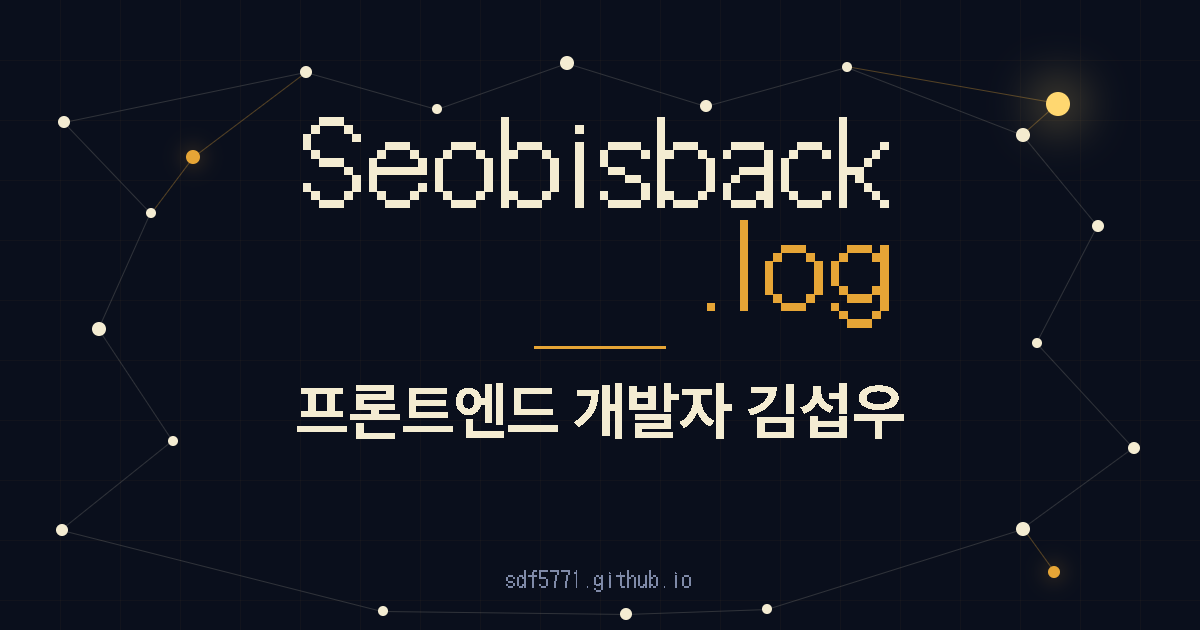
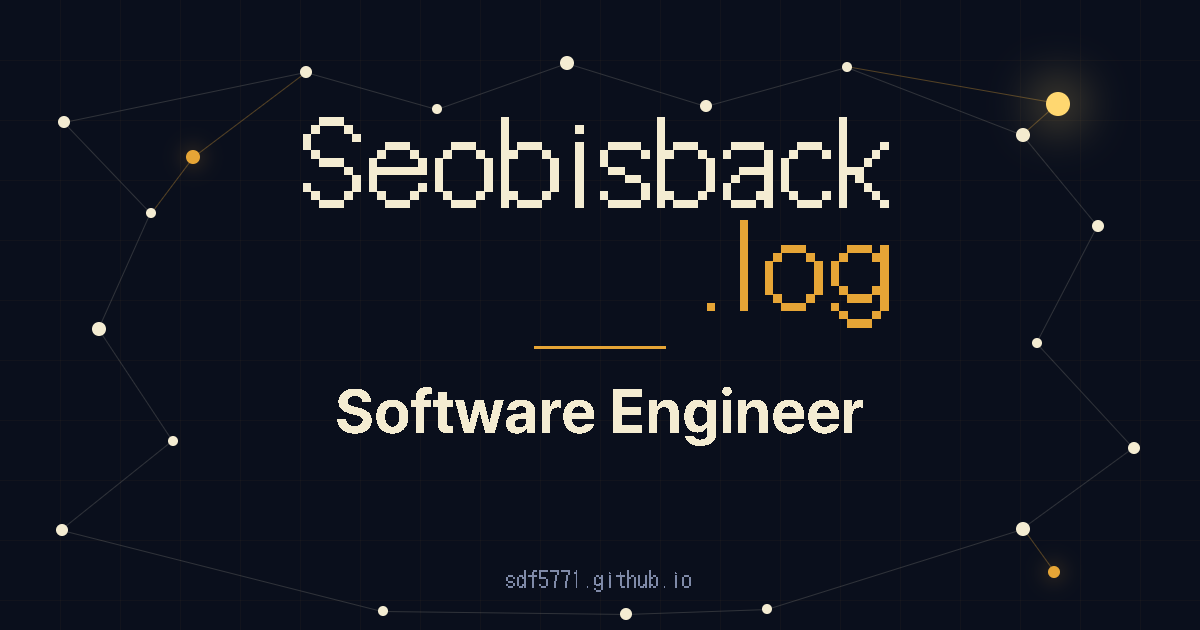
feat: 저자 표기를 Software Engineer Seobisback 으로 통일 + OG 카드 재생성
`프론트엔드 개발자 김섭우` → `Software Engineer` · `Seobisback` 로 전 범위
통일합니다. 홈만 바꾸면 <title>·소개·OG 카드가 서로 다른 직함을 말하게 되어
한 사람이 한 사이트에서 두 직함을 갖습니다.

세 곳은 단순 치환이 아닙니다.
- <title>·og:title·twitter:title 에서 이름을 뺐습니다. 워드마크가 이미
  `Seobisback` 을 담고 있어 부제까지 이름을 넣으면 같은 단어가 두 번 나옵니다.
  → `Seobisback.log — Software Engineer`
- 소개 본문은 어순을 바꿨습니다. `Software Engineer Seobisback입니다` 는 영어
  두 덩어리가 조사 없이 붙어 딱딱합니다.
  → `Software Engineer로 일하는 Seobisback입니다.`
- OG 카드 제목 슬롯은 직함만 넣습니다. 카드에 워드마크가 있어 이름을 또 넣으면
  한 이미지에 세 번 나옵니다. 부수 효과로 슬롯이 1행이 되어 2행 클램프가
  걸리지 않고 축소 가독성이 좋아집니다.

OG 카드는 텍스트가 이미지에 구워져 있어 PNG 를 다시 캡처했습니다(기존 절차
그대로 — playwright 1.52.0 고정 · http.server 경유 · deviceScaleFactor 1).
1200x630 RGB 44.6KB. 슬롯 높이 168px 고정이라 1행이 되어도 세로 배치는
그대로입니다(슬롯 371~539 · 도메인 top 566) — 실측으로 확인했습니다.

홈 h1 은 라틴이 되면서 한글 22px 하한이 빠지지만 11 의 정수배 규칙은 그대로라
55px(5x11) 을 유지합니다. 실측 340px 로 히어로 폭 660px 안에 들어갑니다.

RecentPosts·PostRow·About 의 주석이 인용하던 `김섭우` 도 함께 정정했습니다.

Changed region(s): [[0.2467, 0.6032, 0.7708, 0.7238]]

diff --git a/index.html b/index.html
@@ -41,7 +41,7 @@
     />
     <link rel="icon" type="image/x-icon" href="/favicon.ico" />
     <meta name="viewport" content="width=device-width, initial-scale=1.0" />
-    <meta name="description" content="프론트엔드 개발자 김섭우의 기술 블로그입니다. 공부하거나 조사한 내용을 기록합니다. 프론트엔드, 브라우저, 그리고 그 사이의 이야기를 남깁니다." />
+    <meta name="description" content="Software Engineer Seobisback의 기술 블로그입니다. 공부하거나 조사한 내용을 기록합니다. 프론트엔드, 브라우저, 그리고 그 사이의 이야기를 남깁니다." />
     <meta name="author" content="Seobisback" />
     <meta name="keywords" content="Seobisback, Blog, Frontend, Developer, JavaScript, TypeScript, React, Next.js, Tailwind CSS, HTML, CSS, Web Development" />
     <!--
@@ -51,8 +51,8 @@
       바꾼 문구가 공유 카드에 끝내 나타나지 않습니다.
       바로 아래 twitter:* 는 반대로 `name=` 이 맞습니다(트위터 카드는 RDFa 가 아님).
     -->
-    <meta property="og:title" content="Seobisback.log — 프론트엔드 개발자 김섭우" />
-    <meta property="og:description" content="프론트엔드 개발자 김섭우의 기술 블로그입니다. 공부하거나 조사한 내용을 기록합니다. 프론트엔드, 브라우저, 그리고 그 사이의 이야기를 남깁니다." />
+    <meta property="og:title" content="Seobisback.log — Software Engineer" />
+    <meta property="og:description" content="Software Engineer Seobisback의 기술 블로그입니다. 공부하거나 조사한 내용을 기록합니다. 프론트엔드, 브라우저, 그리고 그 사이의 이야기를 남깁니다." />
     <!--
       🔴 og:image 는 반드시 절대 URL 입니다. 스크레이퍼(페이스북·슬랙·카카오)는
       HTML 을 내려받아 서버 밖에서 파싱하므로 `/og/default.png` 같은 상대 경로를
@@ -65,7 +65,7 @@
     <meta property="og:image" content="https://sdf5771.github.io/og/default.png" />
     <meta property="og:image:width" content="1200" />
     <meta property="og:image:height" content="630" />
-    <meta property="og:image:alt" content="Seobisback.log — 프론트엔드 개발자 김섭우" />
+    <meta property="og:image:alt" content="Software Engineer" />
     <meta property="og:url" content="https://sdf5771.github.io/" />
     <meta property="og:site_name" content="Seobisback.log" />
     <meta property="og:type" content="website" />
@@ -77,11 +77,11 @@
       남겨 두면 og:image 로 폴백하지 않고 이쪽이 우선돼 미리보기가 깨집니다.
     -->
     <meta name="twitter:card" content="summary_large_image" />
-    <meta name="twitter:title" content="Seobisback.log — 프론트엔드 개발자 김섭우" />
-    <meta name="twitter:description" content="프론트엔드 개발자 김섭우의 기술 블로그입니다. 공부하거나 조사한 내용을 기록합니다. 프론트엔드, 브라우저, 그리고 그 사이의 이야기를 남깁니다." />
+    <meta name="twitter:title" content="Seobisback.log — Software Engineer" />
+    <meta name="twitter:description" content="Software Engineer Seobisback의 기술 블로그입니다. 공부하거나 조사한 내용을 기록합니다. 프론트엔드, 브라우저, 그리고 그 사이의 이야기를 남깁니다." />
     <meta name="twitter:image" content="https://sdf5771.github.io/og/default.png" />
     <meta name="twitter:url" content="https://sdf5771.github.io/" />
-    <title>Seobisback.log — 프론트엔드 개발자 김섭우</title>
+    <title>Seobisback.log — Software Engineer</title>
   </head>
   <body>
     <div id="root"></div>

diff --git a/src/routes/About/About.tsx b/src/routes/About/About.tsx
@@ -49,7 +49,7 @@ function About() {
 
                 <section className={styles.intro}>
                     {/*
-                     * 바로 옆에 `프론트엔드 개발자 김섭우입니다` 가 있으므로 alt 는
+                     * 바로 옆에 `Software Engineer로 일하는 Seobisback입니다` 가 있으므로 alt 는
                      * 비웁니다. memoji 일러스트의 외형 설명은 정보량이 0 입니다.
                      * width/height **속성**이 있어야 로드 전에 자리가 잡혀 CLS 가 0 입니다
                      * (CSS width 만으로는 예약 공간이 안 잡힙니다).
@@ -67,7 +67,7 @@ function About() {
 
                     {/* 의미 단위가 달라 <p> 3개로 둡니다. 한 덩어리로 합치지 않습니다 */}
                     <div className={styles.intro_text}>
-                        <p>프론트엔드 개발자 김섭우입니다.</p>
+                        <p>Software Engineer로 일하는 Seobisback입니다.</p>
                         <p>
                             더 나은 서비스를 만드는 방법을 고민하고, 공부하거나 조사한 내용을
                             여기에 남깁니다.

diff --git a/scripts/og-card/og-card.html b/scripts/og-card/og-card.html
@@ -134,7 +134,7 @@
       <!-- ★ 제목 슬롯 ★ 글별 카드는 이 안의 텍스트만 교체합니다 (핸드오프 §3-1).
            높이 168px 은 시안 마크업 정본입니다 — 핸드오프 §1-5 의 172px 은 오기입니다. -->
       <div id="title-slot" style="width:1000px;height:168px;margin-top:22px;display:flex;align-items:flex-start;justify-content:center">
-        <div id="title" style="font-family:'Pretendard',sans-serif;font-weight:700;font-size:62px;line-height:1.3;color:#f4ecd2;text-align:center;letter-spacing:-0.01em;display:-webkit-box;-webkit-line-clamp:2;-webkit-box-orient:vertical;overflow:hidden">프론트엔드 개발자 김섭우</div>
+        <div id="title" style="font-family:'Pretendard',sans-serif;font-weight:700;font-size:62px;line-height:1.3;color:#f4ecd2;text-align:center;letter-spacing:-0.01em;display:-webkit-box;-webkit-line-clamp:2;-webkit-box-orient:vertical;overflow:hidden">Software Engineer</div>
       </div>
     </div>
 

diff --git a/src/constants/site.ts b/src/constants/site.ts
@@ -19,8 +19,14 @@ export const WORDMARK = {
 /** 스크린리더·aria-label·document.title 용 단일 문자열 */
 export const WORDMARK_TEXT = `${WORDMARK.base}${WORDMARK.accent}`;
 
-/** 홈 `<title>`. 홈만 사이트명이 앞에 옵니다 (WRITING_GUIDE §6.13) */
-export const HOME_TITLE = `${WORDMARK_TEXT} — 프론트엔드 개발자 김섭우`;
+/**
+ * 홈 `<title>`. 홈만 사이트명이 앞에 옵니다 (WRITING_GUIDE §6.13)
+ *
+ * 🔴 부제에 이름을 넣지 않습니다. 워드마크가 이미 `Seobisback` 을 담고 있어
+ *    `… — Software Engineer Seobisback` 이면 한 제목에 같은 단어가 두 번 나옵니다.
+ *    부제는 직함만 맡습니다.
+ */
+export const HOME_TITLE = `${WORDMARK_TEXT} — Software Engineer`;
 
 /** 홈이 아닌 화면의 `<title>` 꼬리표. 구분자는 `·` 고정입니다 */
 const TITLE_SUFFIX = ` · ${WORDMARK_TEXT}`;

diff --git a/src/components/home/ConstellationHero.tsx b/src/components/home/ConstellationHero.tsx
@@ -39,8 +39,8 @@ import { formatPostDate, formatReadingMinutes } from '../../utils/postMeta';
 /* ------------------------------------------------------------
  * 확정 카피 (§10) — 이 표의 문자열을 그대로 씁니다
  * ---------------------------------------------------------- */
-const NAME = '김섭우';
-const ROLE = '프론트엔드 개발자';
+const NAME = 'Seobisback';
+const ROLE = 'Software Engineer';
 const INTRO = '공부하거나 조사한 내용을 기록합니다.';
 const PRIMARY_CTA = '최신 글 읽기';
 const SECONDARY_CTA = '전체 글 보기';

diff --git a/src/components/posts/PostRow.tsx b/src/components/posts/PostRow.tsx
@@ -43,7 +43,7 @@ interface PostRowProps {
      * 제목 헤딩 레벨.
      *
      * 목록 화면(`/posts`)은 `h1 글` 아래 바로 행이 오므로 2 입니다.
-     * 홈은 `h1 김섭우 → h2 최근 글 → 행` 이라 3 이어야 합니다 — 2 로 두면
+     * 홈은 `h1 Seobisback → h2 최근 글 → 행` 이라 3 이어야 합니다 — 2 로 두면
      * 스크린리더의 헤딩 목록에서 「최근 글」 섹션 경계가 사라지고, 행 제목이
      * 「읽어볼 만한 글」과 같은 층에 놓입니다.
      */

diff --git a/src/components/home/ConstellationHero.module.css b/src/components/home/ConstellationHero.module.css
@@ -83,7 +83,11 @@
 }
 
 .name {
-    /* 55px = 11 × 5. 한글이라 22px 이상이어야 픽셀 서체가 허용됩니다(§3-3a) */
+    /*
+     * 55px = 11 × 5. 픽셀 서체는 11 의 정수배에서만 비트맵 격자가 맞습니다.
+     * 라틴 표기(`Seobisback`)라 §3-3a 의 「한글 22px 이상」 하한은 적용되지
+     * 않지만, 정수배 규칙은 그대로입니다 — 55 를 임의 값으로 바꾸지 마세요.
+     */
     margin: 0;
     font-family: var(--font-display);
     font-size: var(--fs-pixel-5);

diff --git a/src/components/home/RecentPosts.tsx b/src/components/home/RecentPosts.tsx
@@ -37,7 +37,7 @@ function RecentPosts({ posts, total }: RecentPostsProps) {
 
             <ul className={styles.rows}>
                 {posts.map(post => (
-                    /* 홈은 `h1 김섭우 → h2 최근 글 → h3 글 제목` 입니다 */
+                    /* 홈은 `h1 Seobisback → h2 최근 글 → h3 글 제목` 입니다 */
                     <PostRow key={post.slug} post={post} tokens={NO_TOKENS} headingLevel={3} />
                 ))}
             </ul>
